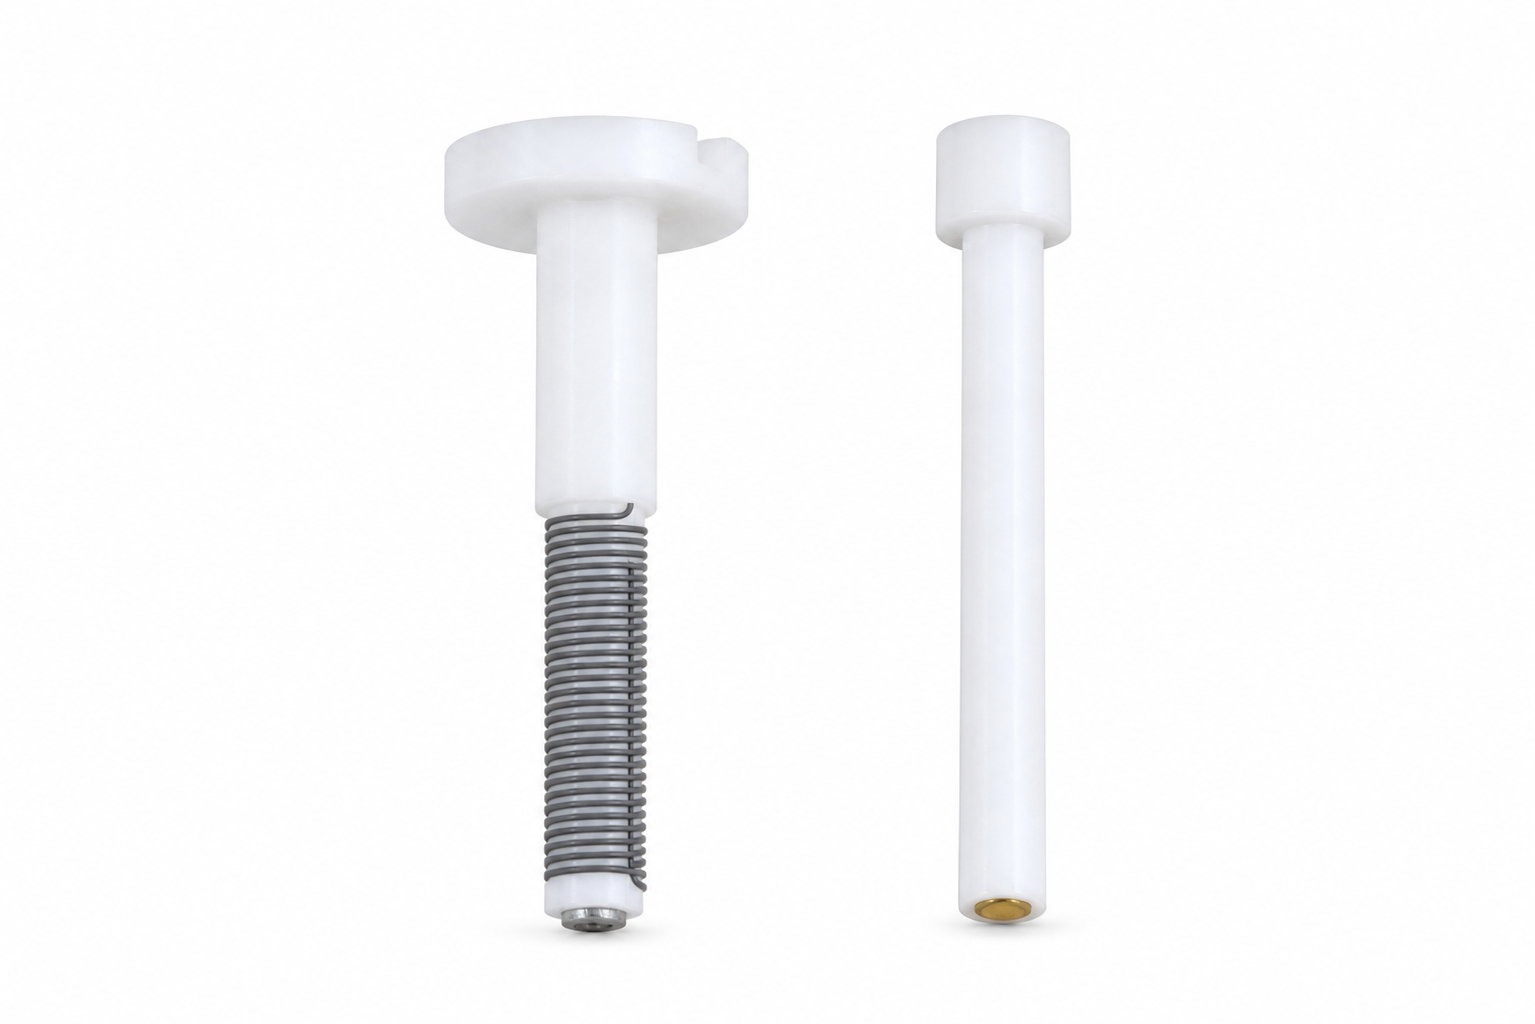
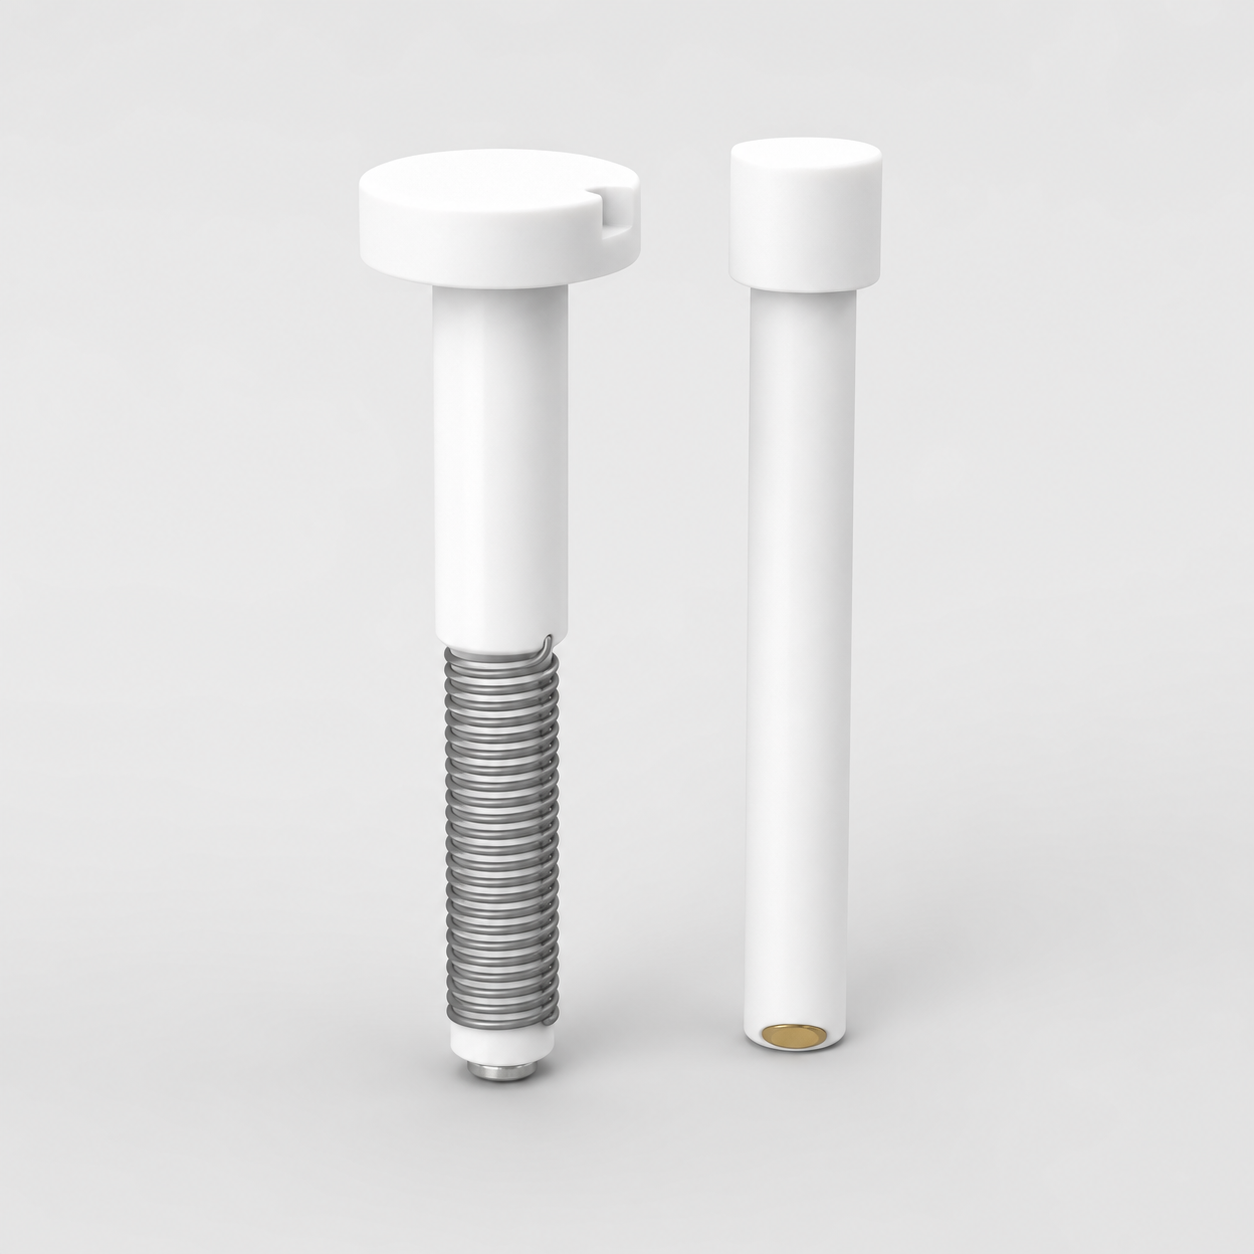
Refresh consumable product imagery (#16)

diff --git a/src/lib/products.ts b/src/lib/products.ts
@@ -463,6 +463,36 @@ Its transparent acrylic body allows visual inspection and can be configured to m
     gallery: ['/images/products/wbst-main.png'],
   },
   {
+    slug: 'wbtu10-lamp-kit',
+    model: 'WBTU10-LK',
+    name: '탁도계 램프 모듈',
+    nameEn: 'Turbidity Lamp Module',
+    category: '유지보수 부품',
+    categoryEn: 'Maintenance Parts',
+    group: 'accessory',
+    application: ['water_treatment'],
+    featured: false,
+    shortDescription: 'WBTU10 전용 소형 보드 일체형 텅스텐 램프 모듈',
+    shortDescriptionEn: 'Compact board-mounted tungsten lamp module for the WBTU10',
+    description: 'WBTU10 탁도계의 광원을 교체하기 위한 소형 보드 일체형 텅스텐 램프 모듈입니다. 램프가 전용 보드에 직접 장착되어 모듈 단위로 교체할 수 있습니다.',
+    descriptionEn: 'A compact board-mounted tungsten lamp module for replacing the WBTU10 light source. The lamp is mounted directly on its dedicated board for module-level replacement.',
+    features: ['WBTU10 전용', '약 17 x 17 mm 소형 보드', '580 nm 텅스텐 램프'],
+    featuresEn: ['For WBTU10', 'Approx. 17 x 17 mm compact board', '580 nm tungsten lamp'],
+    specs: [
+      { label: '호환 기종', labelEn: 'Compatible Model', value: 'WBTU10', valueEn: 'WBTU10' },
+      { label: '광원', labelEn: 'Light Source', value: '텅스텐 램프, 580 nm', valueEn: 'Tungsten lamp, 580 nm' },
+      { label: '구성', labelEn: 'Construction', value: '소형 보드 일체형', valueEn: 'Compact board-mounted module' },
+      { label: '보드 크기', labelEn: 'Board Size', value: '약 17 x 17 mm', valueEn: 'Approx. 17 x 17 mm' },
+    ],
+    image: '/images/products/wbtu10-lamp-module.png',
+    gallery: ['/images/products/wbtu10-lamp-module.png'],
+    price: '가격 문의',
+    priceEn: 'Contact for price',
+    purchasable: true,
+    compatibility: 'WBTU10 온라인 탁도계',
+    compatibilityEn: 'WBTU10 online turbidity meter',
+  },
+  {
     slug: 'wbcl10-electrode-kit',
     model: 'WBCL10-EK',
     name: '잔류염소계 전극 교체 세트',
@@ -491,32 +521,34 @@ Its transparent acrylic body allows visual inspection and can be configured to m
     compatibilityEn: 'WBCL10 residual chlorine analyzer',
   },
   {
-    slug: 'wbtu10-lamp-kit',
-    model: 'WBTU10-LK',
-    name: '탁도계 램프 교체 세트',
-    nameEn: 'Turbidity Lamp Kit',
+    slug: 'wbcl10-ceramic-beads',
+    model: 'WBCL10-CB',
+    name: '잔류염소계 세정용 세라믹 비즈',
+    nameEn: 'Residual Chlorine Cleaning Beads',
     category: '유지보수 부품',
     categoryEn: 'Maintenance Parts',
     group: 'accessory',
     application: ['water_treatment'],
     featured: false,
-    shortDescription: 'WBTU10 전용 텅스텐 램프 교체 부품',
-    shortDescriptionEn: 'Genuine tungsten lamp replacement kit for the WBTU10',
-    description: 'WBTU10 탁도계의 광원 교체를 위한 정품 텅스텐 램프 유지보수 부품입니다.',
-    descriptionEn: 'A genuine tungsten lamp maintenance part for replacing the light source in the WBTU10.',
-    features: ['WBTU10 전용', '580 nm 텅스텐 램프', '현장 교체 지원'],
-    featuresEn: ['For WBTU10', '580 nm tungsten lamp', 'Field replacement support'],
+    shortDescription: 'WBCL10 회전전극 표면 세정을 위한 지르코니아 세라믹 비즈',
+    shortDescriptionEn: 'Zirconia ceramic cleaning beads for the WBCL10 rotating electrode',
+    description: 'WBCL10 잔류염소계의 필터 하우징 내부에서 회전전극 표면의 이물질 부착을 줄이는 세정용 소모품입니다.',
+    descriptionEn: 'A cleaning consumable used inside the WBCL10 filter housing to help limit deposits on the rotating-electrode surface.',
+    features: ['WBCL10 전용', '이트리아 안정화 지르코니아', '직경 1.0-1.2 mm 구형 비즈'],
+    featuresEn: ['For WBCL10', 'Yttria-stabilized zirconia', '1.0-1.2 mm spherical beads'],
     specs: [
-      { label: '호환 기종', labelEn: 'Compatible Model', value: 'WBTU10', valueEn: 'WBTU10' },
-      { label: '광원', labelEn: 'Light Source', value: '텅스텐 램프, 580 nm', valueEn: 'Tungsten lamp, 580 nm' },
+      { label: '호환 기종', labelEn: 'Compatible Model', value: 'WBCL10', valueEn: 'WBCL10' },
+      { label: '재질', labelEn: 'Material', value: '이트리아 안정화 지르코니아', valueEn: 'Yttria-stabilized zirconia' },
+      { label: '직경', labelEn: 'Diameter', value: '1.0-1.2 mm', valueEn: '1.0-1.2 mm' },
+      { label: '용도', labelEn: 'Purpose', value: '회전전극 표면 세정', valueEn: 'Rotating-electrode surface cleaning' },
     ],
-    image: '/images/products/wbtu10-lamp-kit.png',
-    gallery: ['/images/products/wbtu10-lamp-kit.png'],
+    image: '/images/products/wbcl10-ceramic-beads.png',
+    gallery: ['/images/products/wbcl10-ceramic-beads.png'],
     price: '가격 문의',
     priceEn: 'Contact for price',
     purchasable: true,
-    compatibility: 'WBTU10 온라인 탁도계',
-    compatibilityEn: 'WBTU10 online turbidity meter',
+    compatibility: 'WBCL10 잔류염소계',
+    compatibilityEn: 'WBCL10 residual chlorine analyzer',
   },
 ]
 

diff --git a/src/app/[locale]/products/[slug]/ProductDetailClient.tsx b/src/app/[locale]/products/[slug]/ProductDetailClient.tsx
@@ -19,9 +19,16 @@ const imageSizing: Record<string, string> = {
   'wbec-cond': 'h-[360px] w-[56%] sm:h-[475px]',
   'ph-ec-board': 'h-[310px] w-[92%] sm:h-[410px]',
   'sampling-tank': 'h-[360px] w-[82%] sm:h-[470px]',
-  'wbcl10-electrode-kit': 'h-[300px] w-[86%] sm:h-[400px]',
-  'wbtu10-lamp-kit': 'h-[300px] w-[86%] sm:h-[400px]',
+  'wbtu10-lamp-kit': 'h-[270px] w-[68%] sm:h-[360px]',
+  'wbcl10-electrode-kit': 'h-[300px] w-[80%] sm:h-[400px]',
+  'wbcl10-ceramic-beads': 'h-[310px] w-[74%] sm:h-[410px]',
 }
+
+const seamlessRenderSlugs = new Set([
+  'wbtu10-lamp-kit',
+  'wbcl10-electrode-kit',
+  'wbcl10-ceramic-beads',
+])
 
 export default function ProductDetailClient({ product }: { product: Product }) {
   const locale = useLocale()
@@ -30,6 +37,7 @@ export default function ProductDetailClient({ product }: { product: Product }) {
   const tNav = useTranslations('nav')
   const [activeImage, setActiveImage] = useState(product.image)
   const isPhoto = product.slug === 'filter-drain'
+  const isSeamlessRender = seamlessRenderSlugs.has(product.slug)
   const title = isKo ? product.name : product.nameEn
   const description = isKo ? product.description : product.descriptionEn
   const features = isKo ? product.features : product.featuresEn
@@ -62,9 +70,12 @@ export default function ProductDetailClient({ product }: { product: Product }) {
                     fill
                     priority
                     unoptimized={activeImage.endsWith('.svg')}
-                    className="object-contain mix-blend-multiply"
+                    className={`object-contain ${isSeamlessRender ? '' : 'mix-blend-multiply'}`}
                     sizes="(max-width: 1024px) 100vw, 55vw"
                   />
+                  {isSeamlessRender && (
+                    <span className="pointer-events-none absolute inset-0 shadow-[inset_0_0_38px_32px_#f1f3f1]" />
+                  )}
                 </div>
               )}
             </div>

diff --git a/src/components/products/ProductCard.tsx b/src/components/products/ProductCard.tsx
@@ -17,14 +17,22 @@ const imageSizing: Record<string, string> = {
   'wbec-cond': 'h-[82%] w-[56%]',
   'ph-ec-board': 'h-[78%] w-[92%]',
   'sampling-tank': 'h-[82%] w-[78%]',
-  'wbcl10-electrode-kit': 'h-[74%] w-[82%]',
-  'wbtu10-lamp-kit': 'h-[74%] w-[82%]',
+  'wbtu10-lamp-kit': 'h-[66%] w-[66%]',
+  'wbcl10-electrode-kit': 'h-[74%] w-[78%]',
+  'wbcl10-ceramic-beads': 'h-[76%] w-[72%]',
 }
+
+const seamlessRenderSlugs = new Set([
+  'wbtu10-lamp-kit',
+  'wbcl10-electrode-kit',
+  'wbcl10-ceramic-beads',
+])
 
 export default function ProductCard({ product, className }: { product: Product; className?: string }) {
   const locale = useLocale()
   const isKo = locale === 'ko'
   const isPhoto = product.slug === 'filter-drain'
+  const isSeamlessRender = seamlessRenderSlugs.has(product.slug)
 
   return (
     <Link
@@ -47,9 +55,12 @@ export default function ProductCard({ product, className }: { product: Product; 
               alt={isKo ? product.name : product.nameEn}
               fill
               unoptimized={product.image.endsWith('.svg')}
-              className="object-contain mix-blend-multiply transition-transform duration-500 group-hover:scale-[1.025]"
+              className={`object-contain transition-transform duration-500 group-hover:scale-[1.025] ${isSeamlessRender ? '' : 'mix-blend-multiply'}`}
               sizes="(max-width: 768px) 100vw, 33vw"
             />
+            {isSeamlessRender && (
+              <span className="pointer-events-none absolute inset-0 shadow-[inset_0_0_30px_26px_#f1f3f1]" />
+            )}
           </div>
         )}
       </div>
